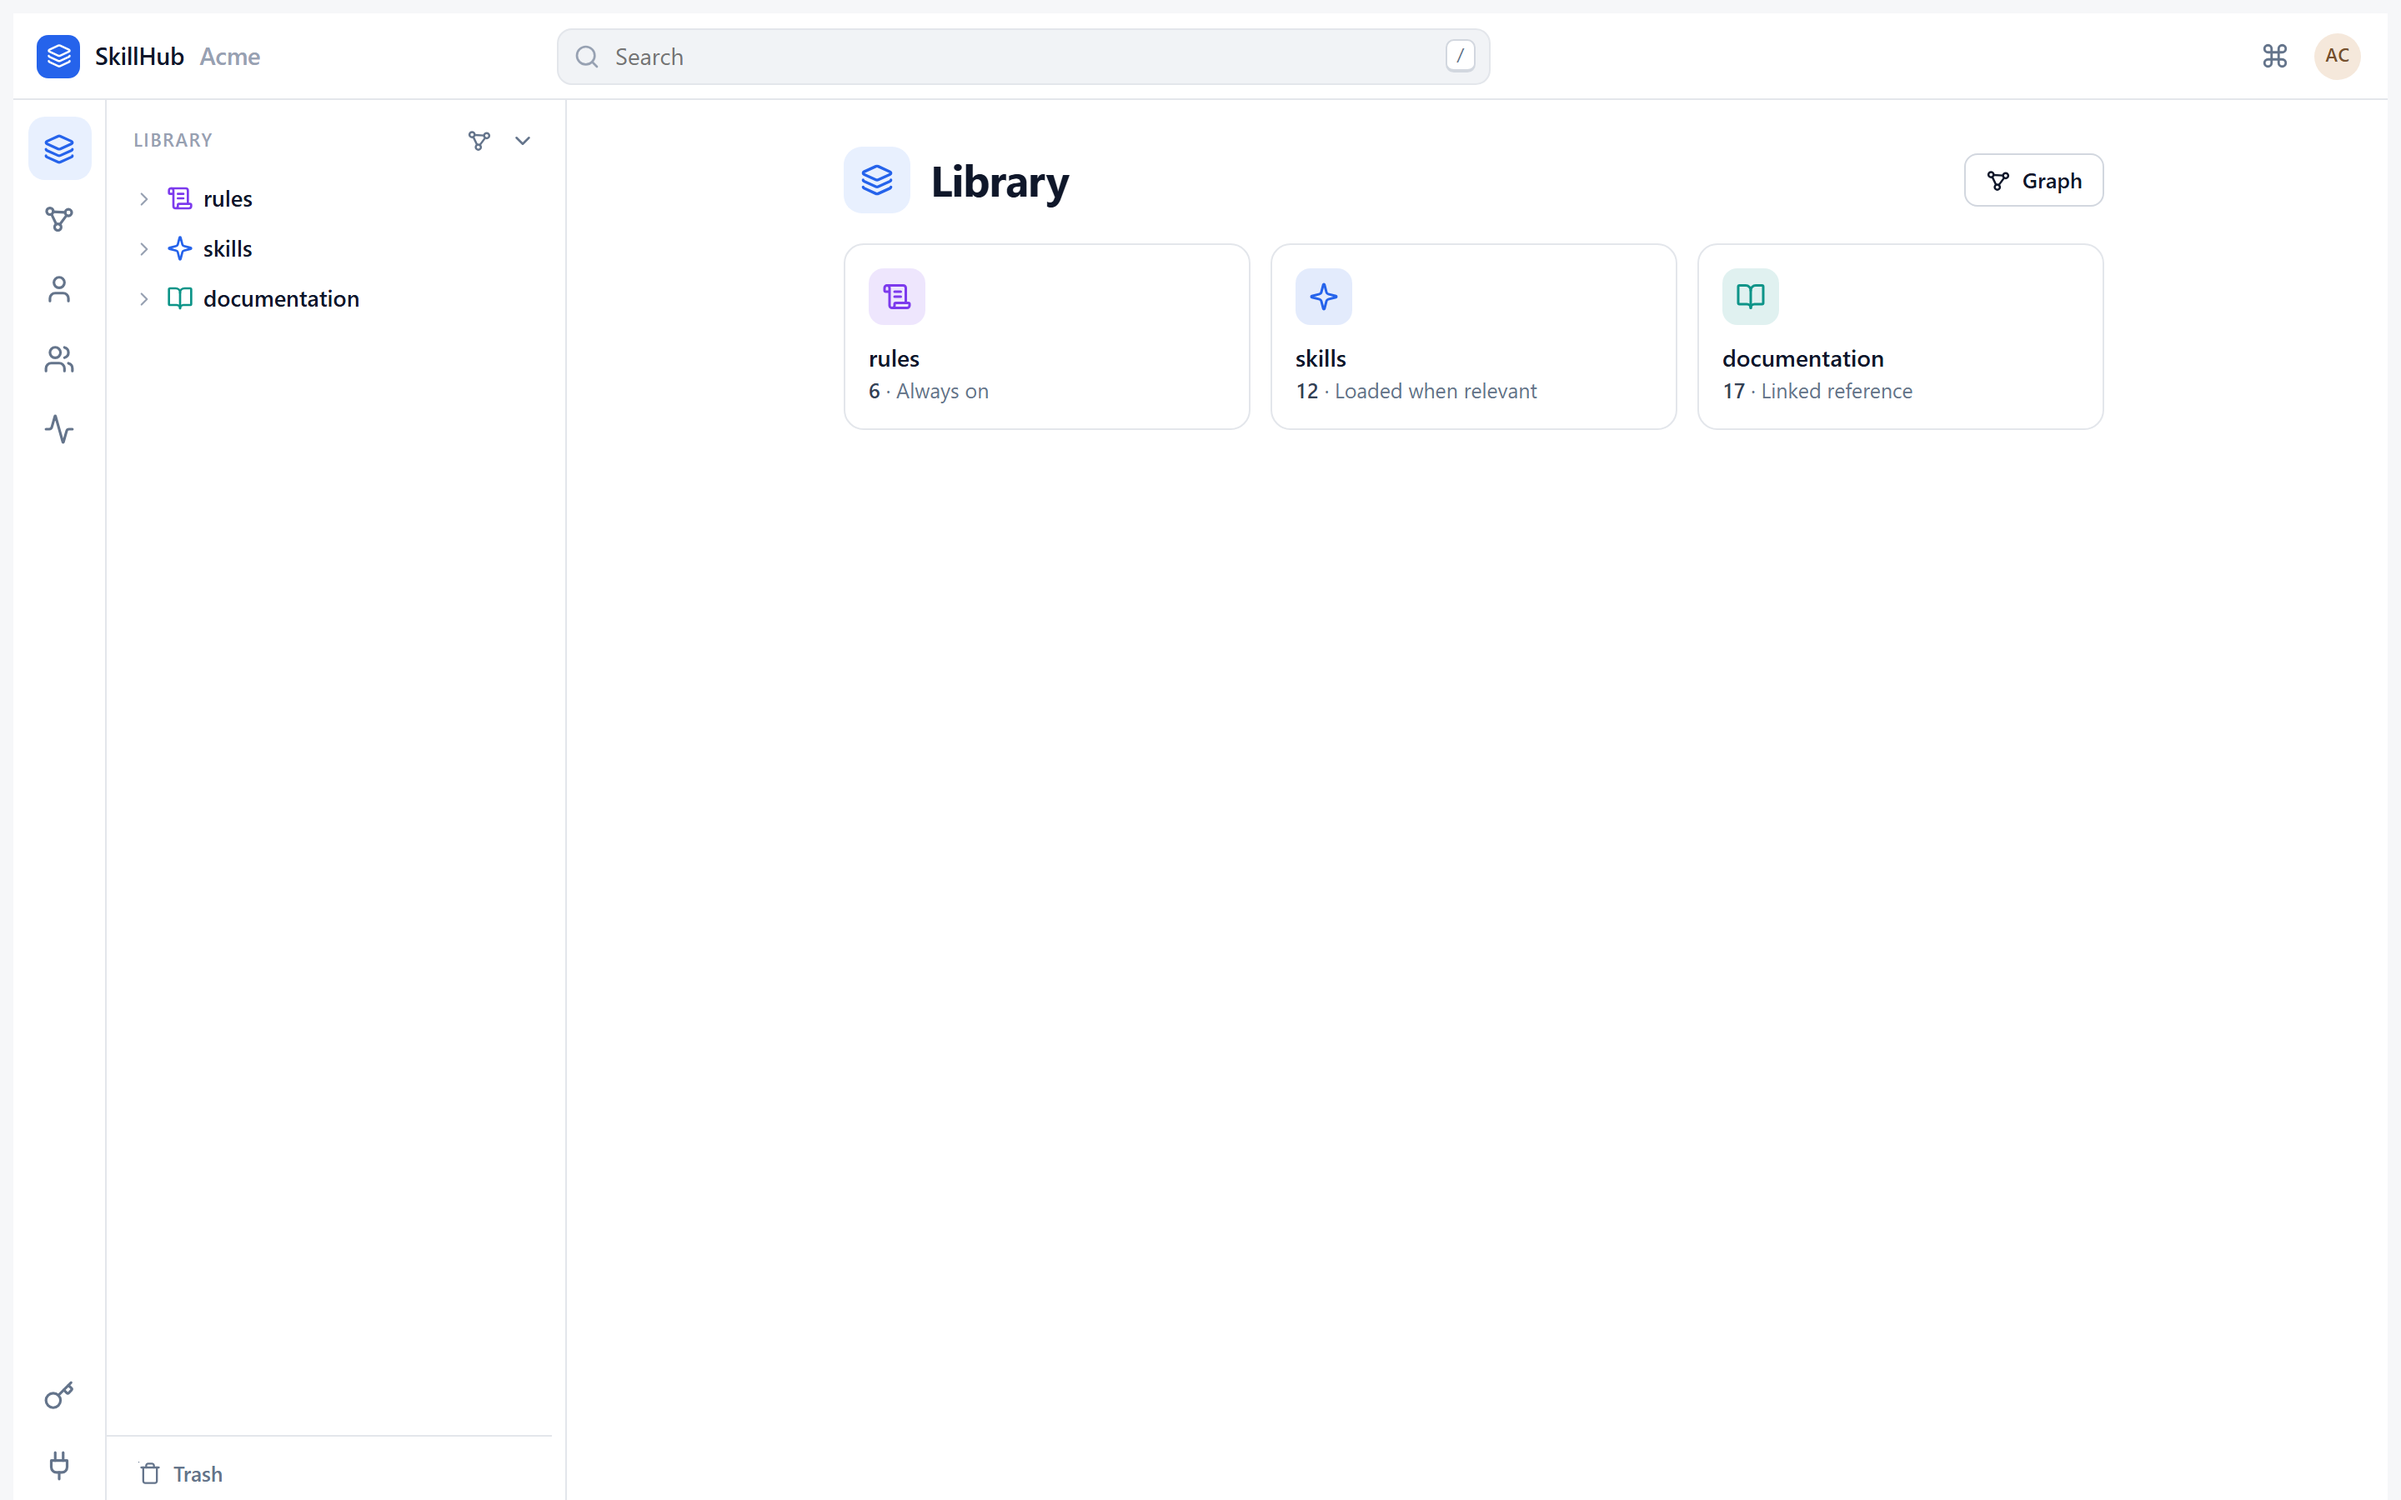
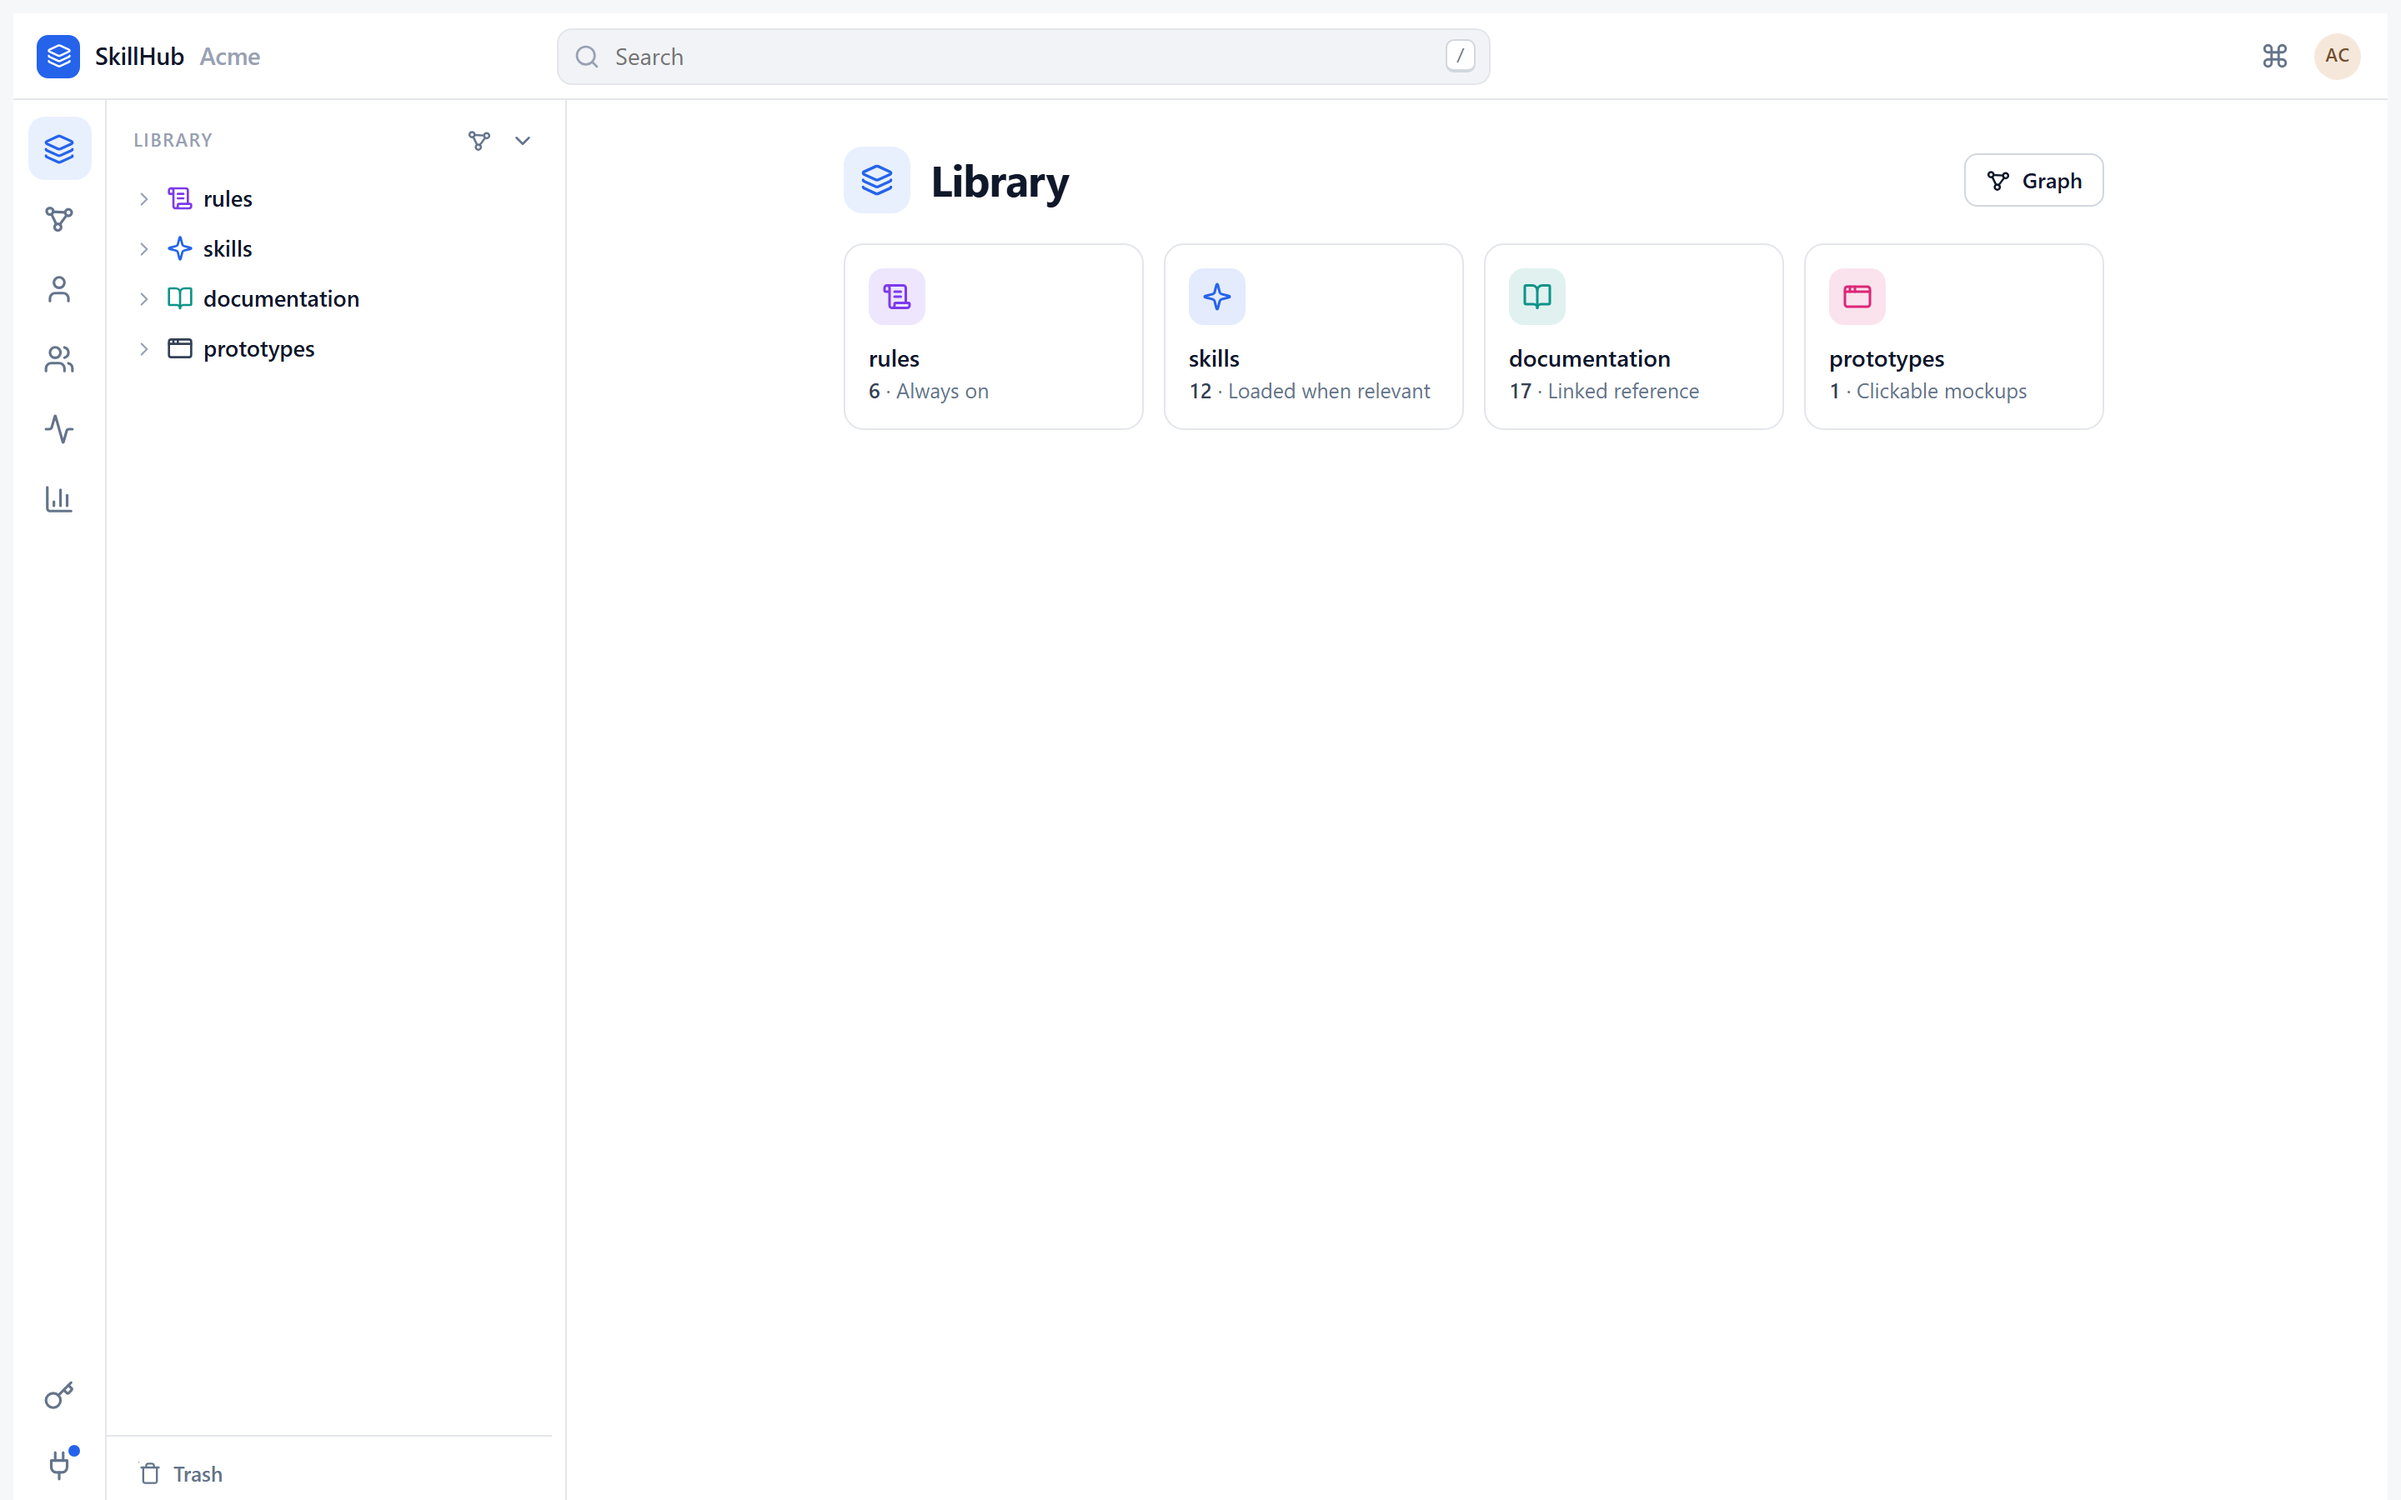
README screenshots: refreshed with prototypes and the new sign-in

Changed region(s): [[0.4688, 0.1556, 0.8438, 0.28], [0.0625, 0.2178, 0.125, 0.2489]]

diff --git a/e2e/screenshots.spec.ts b/e2e/screenshots.spec.ts
@@ -52,7 +52,7 @@ test.describe('desktop', () => {
     await page.goto('/n/skills/deploy-service');
     await expect(page.locator('.skhead')).toBeVisible();
     await page.goto('/');
-    await expect(page.locator('.tile')).toHaveCount(3);
+    await expect(page.locator('.tile')).toHaveCount(4);
     await shot(page, 'desktop-home.png');
 
     await page.goto('/n/skills/incident-response');
